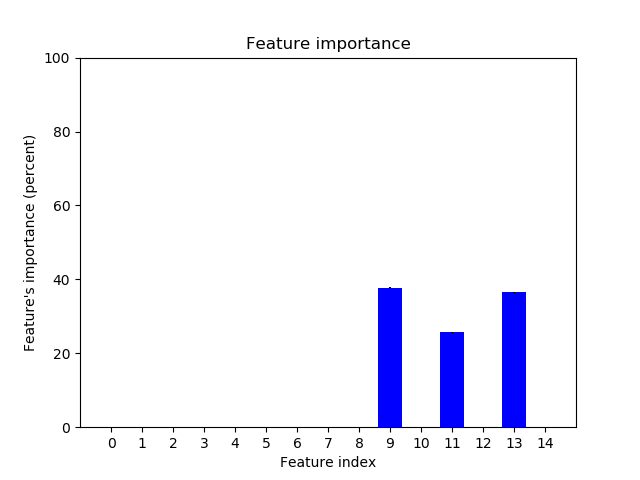
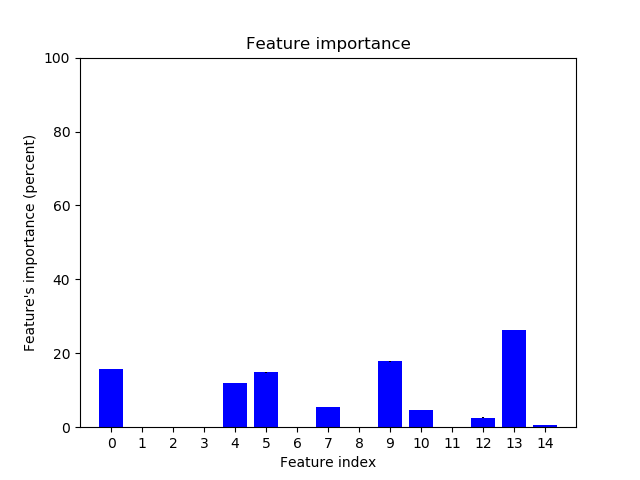
changes

diff --git a/main.py b/main.py
@@ -219,11 +219,26 @@ class Main:
                                                                                              p_value))
 
     @staticmethod
-    def run_analysis():
-        merged_df = Main.read_data_to_framework(data_path=PathHandler.get_relative_path_from_project_inner_folders(["data", "single_sheet_data.xlsx"]), sheet_name="Sheet1")
+    def analyze_backgroud_fix(df):
+        df = df[df["bagrot"] > 0]
+        df = df[df["first_semester_score"] > 0]
+        df = df[df["pysicometry"] > 0]
+        df = df[df["pysicometry"] < 200]
 
-        Main.predict_rf_final_score(df=merged_df, max_depth=2, debug=False)
-        Main.predict_rf_final_score_k_fold_test(df=merged_df, max_depth=2, debug=False)
+        df.to_excel("filtered_data.xlsx")
+
+    @staticmethod
+    def get_middle_students(df):
+        df = df[df["first_semester_score"] >= 75]
+        df = df[df["first_semester_score"] <= 92]
+        return df
+
+    @staticmethod
+    def run_analysis():
+        df = Main.read_data_to_framework(data_path=PathHandler.get_relative_path_from_project_inner_folders(["data", "single_sheet_data.xlsx"]), sheet_name="Sheet1")
+        df = Main.get_middle_students(df=df)
+        for max_depth in range(4, 5):
+            Main.predict_rf_final_score(df, True, max_depth=max_depth)
 
     @staticmethod
     def smart_pearson(df,
